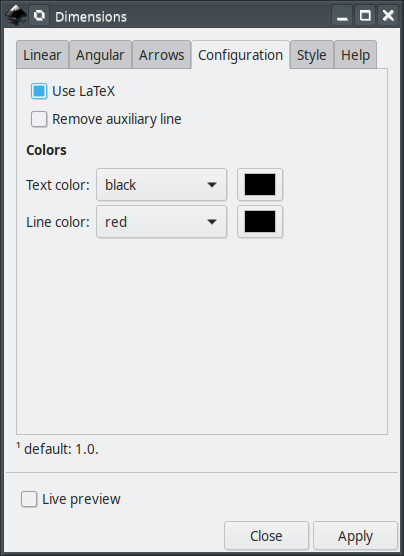
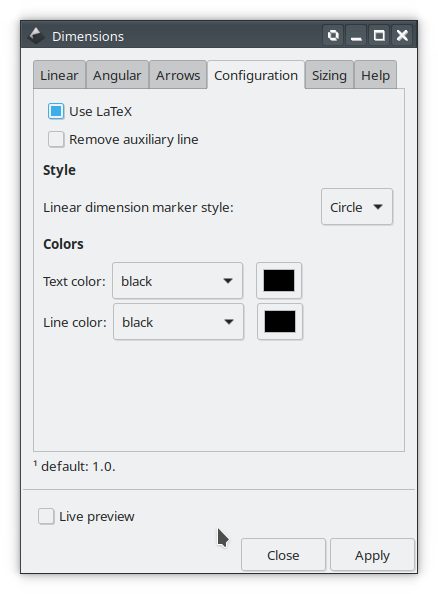
reoganizing tabs

diff --git a/latest/dimensions.py b/latest/dimensions.py
@@ -320,6 +320,10 @@ class Dimensions(inkBase.inkscapeMadeEasy):
 
         listPoints = self.getPoints(auxElem)
 
+        if len(listPoints) != 3 and len(listPoints) != 4:
+            self.displayMsg('ERROR: Line segment is composed by %d vertices. It must contain 3 or 4 vertices' % len(listPoints))
+            return
+
         if len(listPoints) == 3:
             auxElemType = '3points'
             segment1 = lineSegment(listPoints[1], listPoints[0])
@@ -842,6 +846,7 @@ class Dimensions(inkBase.inkscapeMadeEasy):
         listPoints = self.getPoints(element)
 
         if len(listPoints)!=2:
+            self.displayMsg('ERROR: Line segment is composed by %d vertices. It must contain 2 vertices' % len(listPoints))
             return [None,None]
         else:
             P1=listPoints[0]

diff --git a/README.md b/README.md
@@ -267,6 +267,13 @@ In this tab you can create annotation arrows with text. See images below.
 **Remove auxiliary line:** If selected, the auxiliary line used to create the annotations is deleted.
 
 
+### Syle section
+
+**Linear dimension marker style:** Selects the style of the marker for linear dimensions. This options does not
+ affect angular and arrow annotations.
+ 
+<img src="docs/images/LIN_marker_type.png" width="500px"/>
+
 ### Color section
 
 This section controls the color of the auxiliary lines and text off all annotations.
@@ -282,16 +289,12 @@ In both cases, you have three options in the `Color` drop down menu:
   - You can select **use color picker** to choose the color from the color picker widget just to the right of the drop down menu. **Attention:** the color selected in the color picker widget will be considered **ONLY** if you select **use color picker** in the drop down menu. 
 
 
-## Style tab
+## Sizing tab
 
 Here you can adjust the proportions of the annotations.
 
-<img src="docs/images/Tab_style.png" width="450px"/>
+<img src="docs/images/Tab_sizing.png" width="450px"/>
 
-**Linear dimension marker style:** Selects the style of the marker for linear dimensions. This options does not
- affect angular and arrow annotations.
- 
-<img src="docs/images/LIN_marker_type.png" width="500px"/>
 
 **Font size:** Adjusts the font size (h). Please keep in mind that all the proportions of the annotations refer to the font size. See image below.
 
